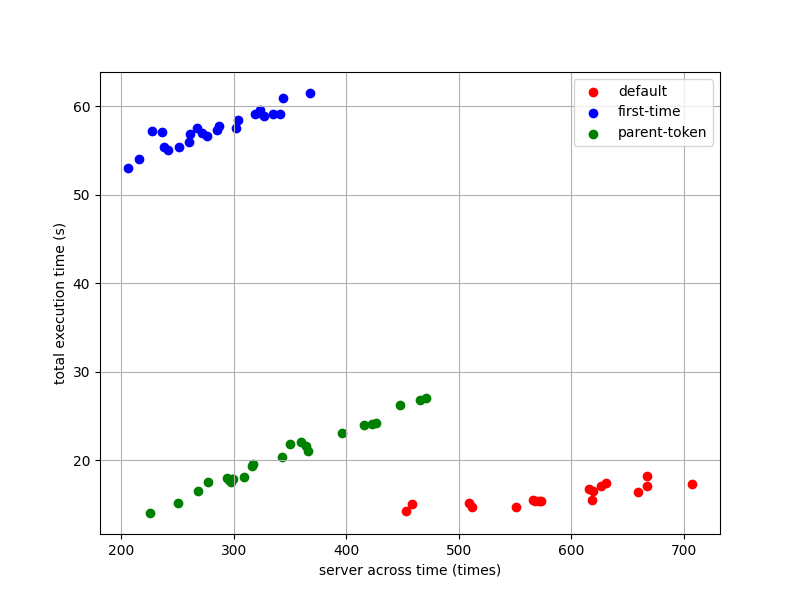
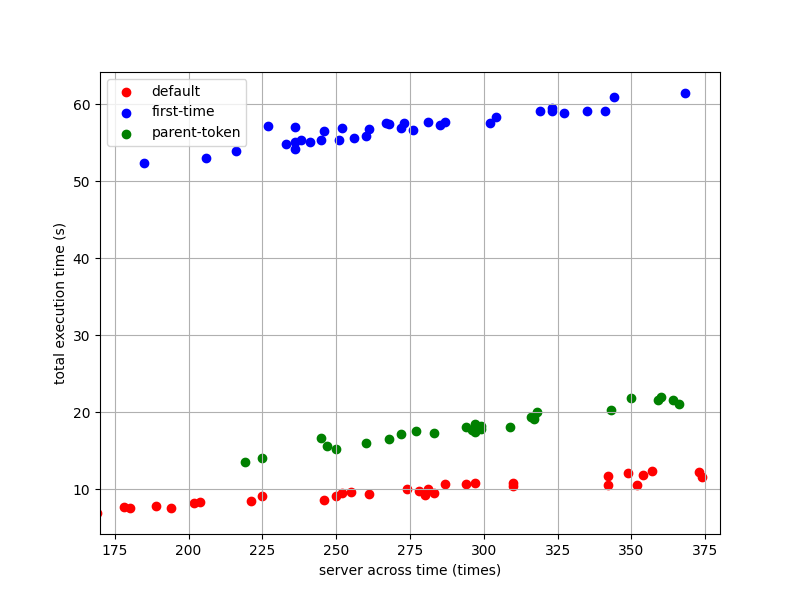
特に何もしていない

diff --git a/new-simple/ave2-3.py b/new-simple/ave2-3.py
@@ -1,0 +1,91 @@
+"""
+このスクリプトでは、平均またぎ回数が２−３回ほどのときの、時間の抽出したのちに、プロットする
+縦軸が時間で横軸は考慮しない
+三本の平行線のようなグラフが描けると思う
+
+処理したいファイル
+default/100-log.txt
+first-time/100-log.txt    
+parent-token/100-log.txt
+
+"""
+
+import matplotlib.pyplot as plt
+import numpy as np
+
+files = {
+    "default": "./default/100-log.txt",
+    "first-time": "./first-time/100-log.txt",
+    "parent-token": "./parent-token/100-log.txt",
+}
+
+total_move_time_results = []
+
+
+def extract_move_time(files):
+    for label, path in files.items():
+        move_time_total = []
+        # またぎ回数が200ー300のもののみ抜き出す
+        with open(path, "r") as f:
+            lines = f.readlines()
+            for line in lines:
+                if "total execution time:" in line:
+                    move_time = float(line.split(":")[1].split(" ")[1])
+                if "サーバのまたぎ回数:" in line:
+                    # 　回数が200-300だったら
+                    if 200 <= int(line.split(":")[1].strip()) <= 300:
+                        print("またぎ回数が200-300のもの")
+                        print(move_time)
+                        move_time_total.append(move_time)
+            total_move_time_results.append(move_time_total)
+
+    # print(total_move_time_results)
+    return total_move_time_results
+
+
+# ここから図表の描画
+"""
+図表の描画
+"""
+
+
+def plt_picture(move_array):
+    plt.figure()
+    # カラーマップを設定
+    colors = plt.cm.tab10(range(len(move_array)))  # データセットごとに異なる色を取得
+
+    # 各 `move_array` のデータをプロット
+    for i, move_time_results in enumerate(move_array):
+        x_values = [0] * len(move_time_results)  # x 軸の値は固定
+        y_values = move_time_results  # y 軸に配列の値を設定
+        plt.scatter(
+            x_values,
+            y_values,
+            label=f"{list(files.keys())[i]} (points)",
+            color=colors[i],
+            s=10,
+        )  # 散布点をプロット
+
+        # 平均値を計算
+        avg_y = np.mean(y_values)
+
+        # 平均値の線を描画
+        plt.hlines(
+            avg_y,
+            -0.5,
+            0.5,
+            colors=colors[i],
+            linestyles="dashed",
+            label=f"{list(files.keys())[i]} (avg)",
+        )
+
+    # 軸ラベル、凡例の設定
+    plt.xlabel("Fixed x-axis")
+    plt.ylabel("Move values")
+    plt.legend()
+    plt.show()
+
+
+if __name__ == "__main__":
+    total_move_time_results = extract_move_time(files)
+    plt_picture(total_move_time_results)

diff --git a/new-simple/parent-token/Jwt.py b/new-simple/parent-token/Jwt.py
@@ -10,7 +10,8 @@ def generate_jwt(user_id):
     payload = {
         "user_id": user_id,
         "exp": datetime.datetime.utcnow()
-        + datetime.timedelta(minutes=30),  # 30分の有効期限
+        # TODO: これを０にしたときにちゃんと失敗するのか確認したい
+        + datetime.timedelta(minutes=0),  # 30分の有効期限
         "iat": datetime.datetime.utcnow(),  # 発行時刻
     }
     token = jwt.encode(payload, SECRET_KEY, algorithm="HS256")

diff --git a/new-simple/format.py b/new-simple/format.py
@@ -2,7 +2,7 @@ total_time = []
 across_server_list = []
 
 # ファイルを読み込む
-with open("./first-time/100-log.txt", "r", encoding="utf-8") as file:
+with open("./first-time/log.txt", "r", encoding="utf-8") as file:
     for line in file:
         # 'across_server' を含む行を探す
         if "total execution time" in line:

diff --git a/new-simple/default/server-1.py b/new-simple/default/server-1.py
@@ -195,7 +195,7 @@ if __name__ == "__main__":
         command_server_port=3203,
         public_key="Server1_Public_Key",  # 公開鍵
         alpha=0.15,  # RWの終了確立
-        beta=0.3,
+        beta=0.2,
         rw_count=100,
     )
     server1.run()

diff --git a/new-simple/parent-token/server-1.py b/new-simple/parent-token/server-1.py
@@ -273,7 +273,7 @@ if __name__ == "__main__":
         command_server_port=3103,
         public_key="Server1_Public_Key",  # 公開鍵
         alpha=0.15,
-        beta=0.7,
+        beta=0.2,
         rw_count=100,
         parent_token=None,
     )

diff --git a/new-simple/first-time/server-1.py b/new-simple/first-time/server-1.py
@@ -228,7 +228,7 @@ if __name__ == "__main__":
         command_server_port=3103,
         public_key="Server1_Public_Key",  # 公開鍵
         alpha=0.15,
-        beta=0.5,
+        beta=0.2,
         rw_count=100,
     )
     server1.run()

diff --git a/new-simple/result.py b/new-simple/result.py
@@ -28,6 +28,8 @@ data_files = {
 
 colors = ["red", "blue", "green"]
 plt.figure(figsize=(8, 6))
+# ux軸の範囲を決めたい
+plt.xlim(170, 380)
 
 # 各データセットをプロット
 for label, (color, file_path) in zip(

diff --git a/new-simple/default/server-2.py b/new-simple/default/server-2.py
@@ -129,6 +129,6 @@ if __name__ == "__main__":
         command_server_port=3203,
         public_key="Server1_Public_Key",  # 公開鍵
         alpha=0.15,
-        beta=0.4,
+        beta=0.3,
     )
     server2.run()

diff --git a/new-simple/first-time/server-2.py b/new-simple/first-time/server-2.py
@@ -138,6 +138,6 @@ if __name__ == "__main__":
         command_server_port=3103,
         public_key="Server1_Public_Key",  # 公開鍵
         alpha=0.15,
-        beta=0.4,
+        beta=0.3,
     )
     server2.run()

diff --git a/new-simple/parent-token/server-2.py b/new-simple/parent-token/server-2.py
@@ -135,6 +135,6 @@ if __name__ == "__main__":
         command_server_port=3103,
         public_key="Server1_Public_Key",  # 公開鍵
         alpha=0.15,
-        beta=0.7,
+        beta=0.3,
     )
     server2.run()
